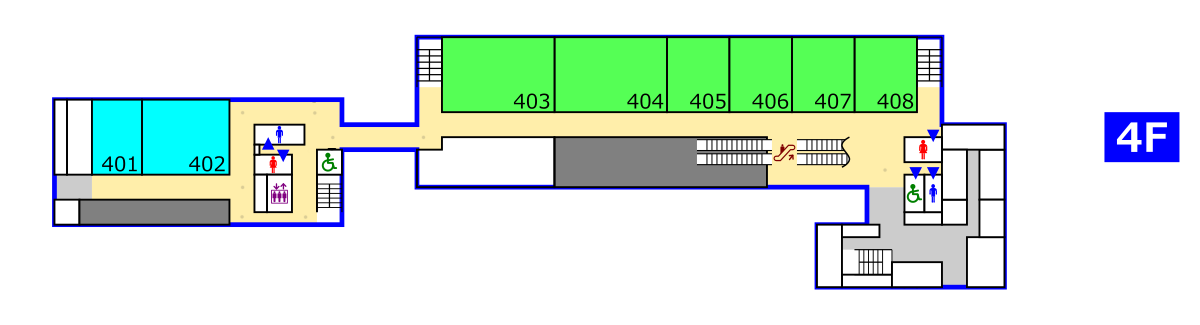
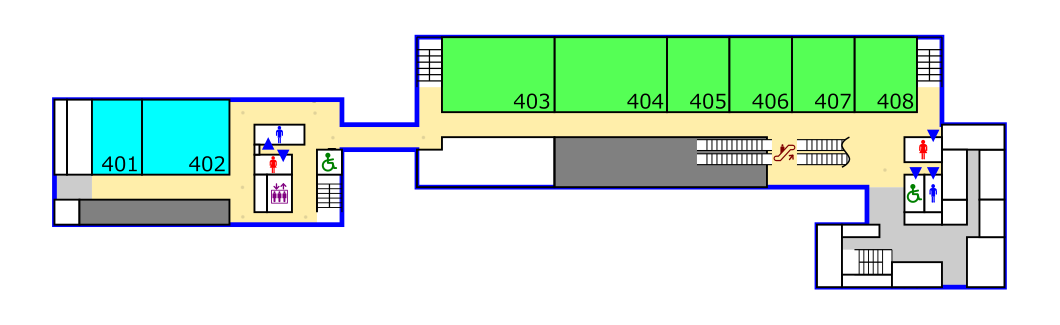
地図のデザイン修正

Changed region(s): [[0.0311, 0.0923, 0.9962, 0.8923]]

diff --git a/project06/templates/toyosu_campus_navi/index.html b/project06/templates/toyosu_campus_navi/index.html
@@ -3,7 +3,7 @@
 <head>
     <meta charset="UTF-8">
     <meta name="viewport" content="width=device-width, initial-scale=1.0">
-    <title>Document</title>
+    <title>豊洲キャンパスナビ</title>
     
     <link href="https://cdn.jsdelivr.net/npm/bootstrap@5.3.8/dist/css/bootstrap.min.css" rel="stylesheet" crossorigin="anonymous">
     <script src="https://cdn.jsdelivr.net/npm/bootstrap@5.3.8/dist/js/bootstrap.bundle.min.js" crossorigin="anonymous"></script>
@@ -47,7 +47,7 @@
     </div>
     
     {% load static %}
-    <img src="{% static 'toyosu_campus_navi/image/' %}{{ map_image_file }}" style="width:90%">
+    <img src="{% static 'toyosu_campus_navi/image/' %}{{ map_image_file }}">
 
 
 

diff --git a/project06/static/toyosu_campus_navi/css/style.css b/project06/static/toyosu_campus_navi/css/style.css
@@ -8,3 +8,7 @@ body{
     padding: 6px;
     border-radius: 6px;
 }
+
+img{
+    width : 95%;
+}

diff --git a/project06/toyosu_campus_navi/navi.py b/project06/toyosu_campus_navi/navi.py
@@ -54,7 +54,7 @@ class navi:
             ("教室棟_多目的トイレ", "教室棟_男性トイレ", cls.pythagorean(nodes["教室棟_多目的トイレ"], nodes["教室棟_男性トイレ"])),
             ("中継_教室棟_トイレ", "教室棟_多目的トイレ", cls.pythagorean(nodes["中継_教室棟_トイレ"], nodes["教室棟_多目的トイレ"])),
             ("403教室", "教室棟_渡り廊下入口", cls.pythagorean(nodes["403教室"], nodes["教室棟_渡り廊下入口"])),
-            ("教室棟_渡り廊下入口", "交流棟_渡り廊下入口", cls.pythagorean(nodes["教室棟_渡り廊下入口"], nodes["交流棟_渡り廊下入口"])*2),
+            ("教室棟_渡り廊下入口", "交流棟_渡り廊下入口", cls.pythagorean(nodes["教室棟_渡り廊下入口"], nodes["交流棟_渡り廊下入口"])*1.5),
             ("交流棟_渡り廊下入口", "自動販売機", cls.pythagorean(nodes["交流棟_渡り廊下入口"], nodes["自動販売機"])),
             ("交流棟_渡り廊下入口", "中継_交流棟_トイレ", cls.pythagorean(nodes["交流棟_渡り廊下入口"], nodes["中継_交流棟_トイレ"])),
             ("中継_交流棟_トイレ", "交流棟_男性トイレ", cls.pythagorean(nodes["中継_交流棟_トイレ"], nodes["交流棟_男性トイレ"])),
@@ -84,7 +84,7 @@ class navi:
         Graph=cls.get_instance()
         # ダイクストラ法で最短経路とその推定移動時間を求める
         shortest_path = nx.dijkstra_path(Graph, start, goal)
-        estimated_time = nx.dijkstra_path_length(Graph, start, goal) / 8
+        estimated_time = nx.dijkstra_path_length(Graph, start, goal) / 7
         return shortest_path, estimated_time
 
     @classmethod
